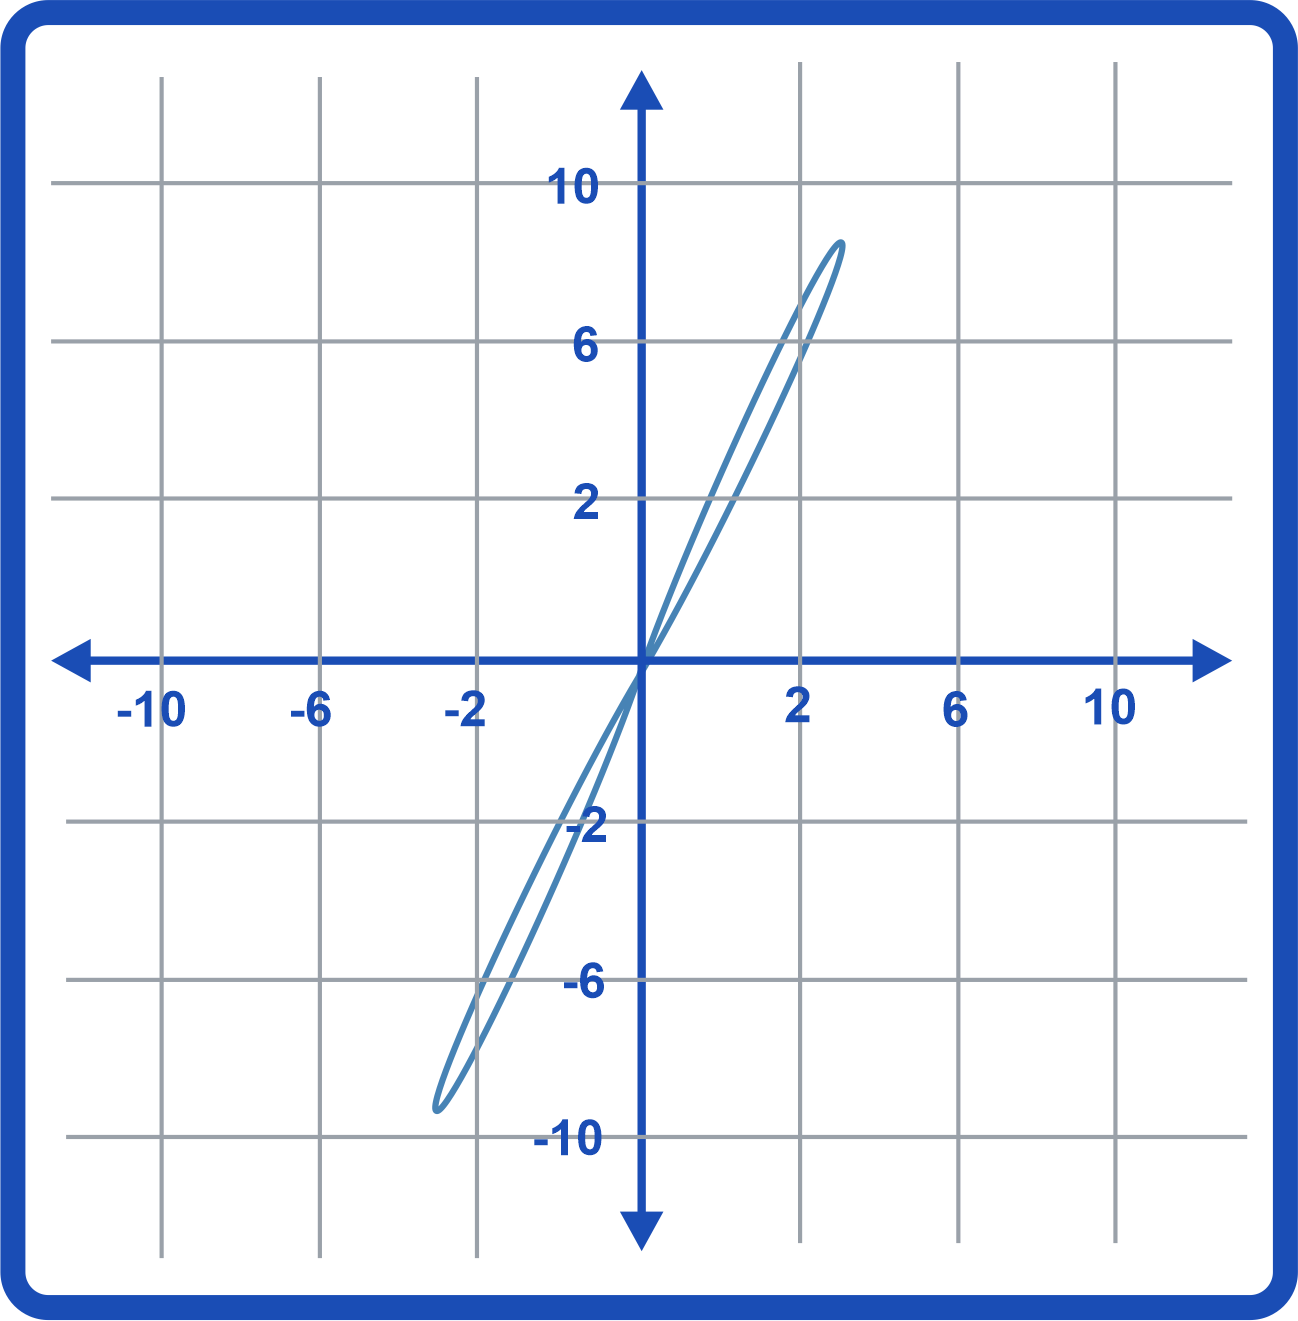
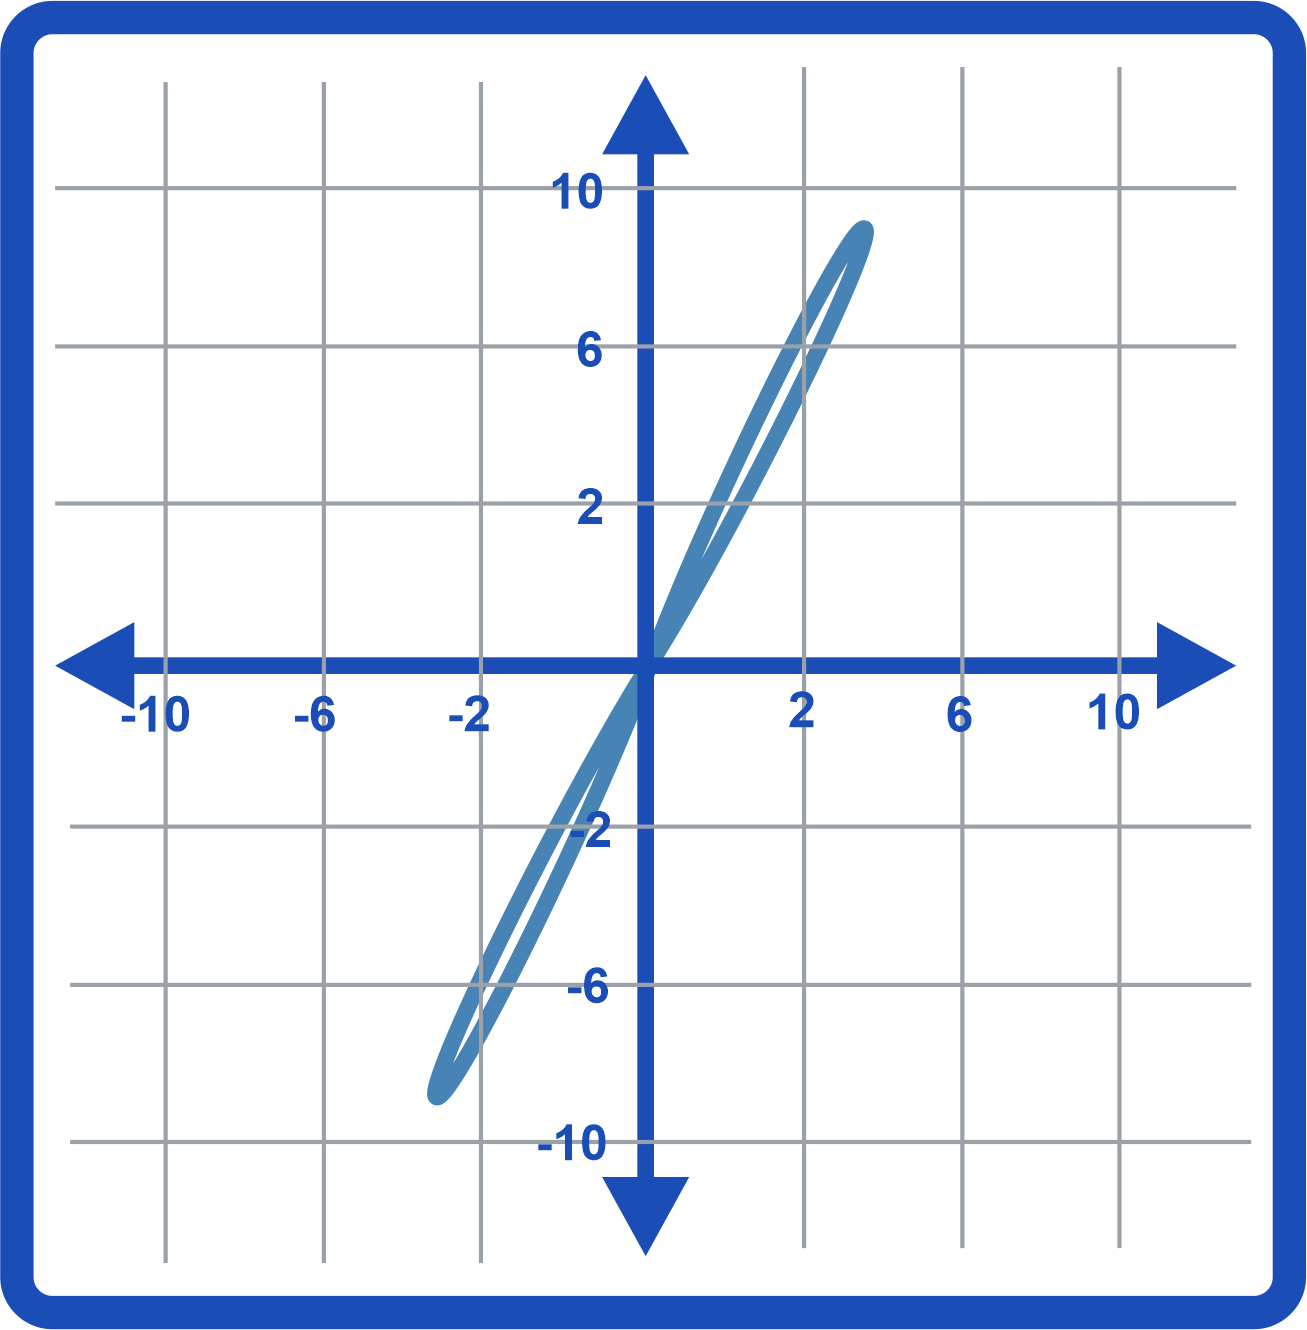
RAM Ref Updated 1

Changed region(s): [[0.0, 0.0, 1.0, 1.0], [0.5855, 0.7139, 0.6471, 0.7449], [0.2157, 0.7139, 0.2773, 0.7449]]

diff --git a/qml/screens/ReportsScreen.qml b/qml/screens/ReportsScreen.qml
@@ -151,7 +151,7 @@ Item {
 
                     MenuTile {
                         iconSource: "qrc:/qt/qml/Application/assets/images/folder.png"
-                        label: "Reports\nFolder"
+                        label: "Generated\nReports"
                         iconSize: 100 * root.scale
                         onTileClicked: navigateTo("ReportsFolder")
                     }

diff --git a/qml/components/MenuTile.qml b/qml/components/MenuTile.qml
@@ -35,7 +35,7 @@ import QtQuick
             text: label
             anchors.horizontalCenter: parent.horizontalCenter
             font.pixelSize: 18
-            color: "#1A1A2E"
+            color: "#5B5B5B"
             horizontalAlignment: Text.AlignHCenter
         }
     }

diff --git a/qml/components/RamUsageBubble.qml b/qml/components/RamUsageBubble.qml
@@ -5,7 +5,7 @@ Rectangle {
 
     property Item boundary
     property real edgePadding: 12
-    property int refreshInterval: 1000
+    property int refreshInterval: 5000
     property real nearestEdge: 0
 
     width: 130
